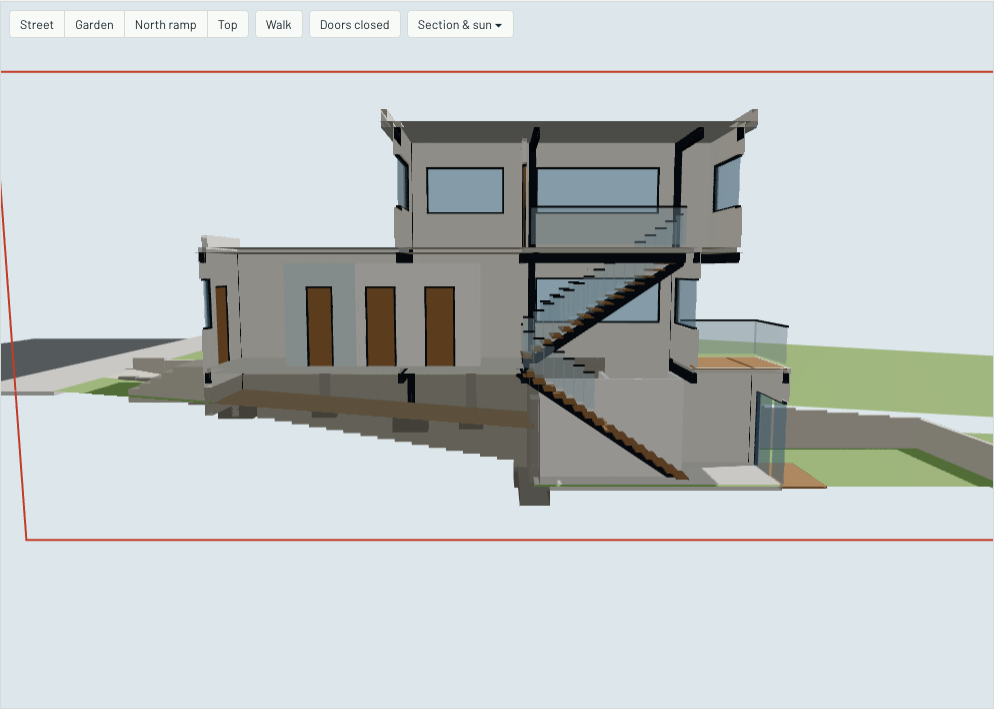
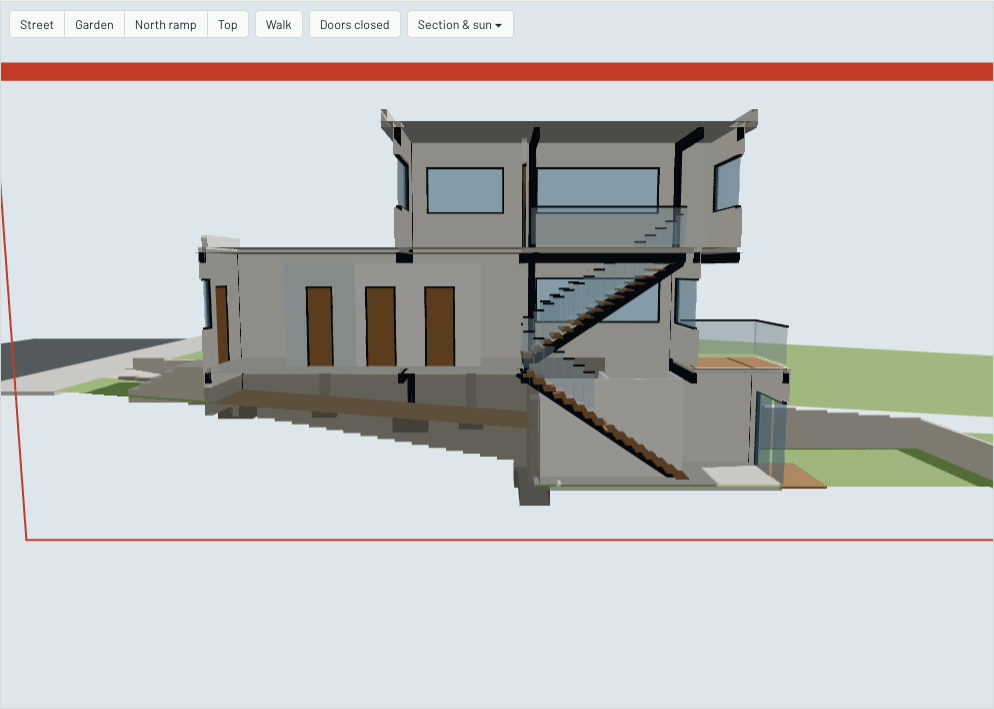
02: 3D model of site, cut, structure and building shell
Draggable section plane, docs, status, decisions, questions and screenshots.

Changed region(s): [[0.0, 0.0621, 1.0, 0.1241]]

diff --git a/src/ui/Scene3D.tsx b/src/ui/Scene3D.tsx
@@ -207,10 +207,50 @@ function SectionClip() {
     }
   });
   if (section.v === 'off') return null;
-  const quad: [number, number, number][] = section.v === 'across'
-    ? [T([-3, section.pos, -4]), T([13, section.pos, -4]), T([13, section.pos, 8]), T([-3, section.pos, 8]), T([-3, section.pos, -4])]
-    : [T([section.pos, -5, -4]), T([section.pos, 22, -4]), T([section.pos, 22, 8]), T([section.pos, -5, 8]), T([section.pos, -5, -4])];
-  return <Line points={quad} color="#B4432F" lineWidth={2} raycast={() => null} />;
+  return <SectionHandle />;
+}
+
+const HANDLE_Z = 8;
+const handleMat = new THREE.MeshBasicMaterial({ color: '#B4432F' });
+
+/** The red frame of the vertical section, with a bar on top you can drag. */
+function SectionHandle() {
+  const section = useApp((s) => s.section);
+  const { controls } = useThree() as unknown as { controls: { enabled: boolean } | null };
+  const drag = useRef(false);
+  const across = section.v === 'across';
+  const quad: [number, number, number][] = across
+    ? [T([-3, section.pos, -4]), T([13, section.pos, -4]), T([13, section.pos, HANDLE_Z]), T([-3, section.pos, HANDLE_Z]), T([-3, section.pos, -4])]
+    : [T([section.pos, -5, -4]), T([section.pos, 22, -4]), T([section.pos, 22, HANDLE_Z]), T([section.pos, -5, HANDLE_Z]), T([section.pos, -5, -4])];
+  const bar: BoxPart = across
+    ? { kind: 'box', id: 'handle', mat: 'rail', c: [5, section.pos, HANDLE_Z], s: [16, 0.35, 0.35] }
+    : { kind: 'box', id: 'handle', mat: 'rail', c: [section.pos, 8.5, HANDLE_Z], s: [0.35, 27, 0.35] };
+  const onMove = (e: ThreeEvent<PointerEvent>) => {
+    if (!drag.current) return;
+    e.stopPropagation();
+    const hit = e.ray.intersectPlane(new THREE.Plane(new THREE.Vector3(0, 1, 0), -HANDLE_Z), new THREE.Vector3());
+    if (!hit) return;
+    const st = useApp.getState();
+    const v = across ? Math.min(21, Math.max(-4, -hit.z)) : Math.min(12, Math.max(-2, hit.x));
+    st.set3d({ section: { ...st.section, pos: Math.round(v / 0.05) * 0.05 } });
+  };
+  const end = (e: ThreeEvent<PointerEvent>) => {
+    if (!drag.current) return;
+    drag.current = false;
+    if (controls) controls.enabled = true;
+    (e.target as unknown as Element).releasePointerCapture?.(e.pointerId);
+  };
+  return (
+    <>
+      <Line points={quad} color="#B4432F" lineWidth={2} raycast={() => null} />
+      <mesh
+        geometry={unitBox} material={handleMat} position={T(bar.c)} scale={[bar.s[0], bar.s[2], bar.s[1]]}
+        onPointerDown={(e) => { e.stopPropagation(); drag.current = true; if (controls) controls.enabled = false; (e.target as unknown as Element).setPointerCapture?.(e.pointerId); }}
+        onPointerMove={onMove} onPointerUp={end} onPointerCancel={end}
+        onPointerOver={() => { document.body.style.cursor = 'ew-resize'; }} onPointerOut={() => { document.body.style.cursor = ''; }}
+      />
+    </>
+  );
 }
 
 function TestHook() {

diff --git a/e2e/view3d.spec.ts b/e2e/view3d.spec.ts
@@ -71,3 +71,22 @@ test('walk mode starts at the street and moves with the keyboard', async ({ page
   const after = await page.evaluate(() => (window as unknown as { __casa3d: Hook }).__casa3d.project(4.5, 0, 3.2));
   expect(after).not.toEqual(before); // the camera moved
 });
+
+test('drag the section plane by its red bar', async ({ page }) => {
+  await page.goto('/');
+  await page.getByTestId('view-3d').click();
+  await ready(page);
+  await page.getByRole('button', { name: 'Section & sun ▾' }).click();
+  await page.getByTestId('section-along').click();
+  await page.getByRole('button', { name: 'Less ▴' }).click();
+  await page.waitForTimeout(500);
+  const [x, y] = await screen(page, 2.45, 14, 8);
+  const [x2, y2] = await screen(page, 4.45, 14, 8);
+  await page.mouse.move(x, y);
+  await page.mouse.down();
+  for (let i = 1; i <= 10; i++) await page.mouse.move(x + ((x2 - x) * i) / 10, y + ((y2 - y) * i) / 10);
+  await page.mouse.up();
+  await page.getByRole('button', { name: 'Section & sun ▾' }).click();
+  const v = Number(await page.getByTestId('section-pos').inputValue());
+  expect(v).toBeGreaterThan(3.5);
+});

diff --git a/vite.config.ts b/vite.config.ts
@@ -3,6 +3,8 @@ import react from '@vitejs/plugin-react';
 
 export default defineConfig({
   plugins: [react()],
+  // three.js is large but only loads when the 3D view opens.
+  build: { chunkSizeWarningLimit: 1600 },
   server: { port: 5173, strictPort: true },
   test: {
     include: ['tests/**/*.test.ts'],

diff --git a/docs/STATUS.md b/docs/STATUS.md
@@ -2,6 +2,49 @@
 
 _Updated by Claude Code after every spec. The manager reads this file._
 
+## 2026-09-29 — Spec 02 done: 3D model of site, cut, structure and shell
+
+### What was built
+- **Three views:** 2D, 3D and Split (2D left, 3D right), from buttons above the plan. All of them draw the same model, so moving a wall in 2D changes the 3D at once.
+- **3D camera:** orbit, pan and zoom with the mouse or trackpad. Presets: Street, Garden, North ramp, Top. **Walk** mode puts you on the sidewalk at eye height 1.60 m. Arrow keys or W A S D move you (drag to look around, Shift to go faster), and there are on-screen arrows for the tablet. Walls block you; stairs and steps carry you up and down.
+- **Site:** the lot (14 m front, 15 m rear, 25 m sides) falls from 0.00 at the street to −2.00 at the rear. The rear half is cut to −2.55 behind retaining walls. The north walking ramp (12.5 %) goes from the street down to the garden, and the south passage slopes down to the garden. There are setback lines on the ground (orange), low walls on the neighbour boundaries, the street and the sidewalk, and entry steps up to the front door.
+- **Structure,** generated from the grid and the floors and stored in the model:
+  - 15 steel columns (W200 by default), and concrete piers under the raised street floor over the crawlspace;
+  - steel beams on the grid lines, along the slab edges and around the stair wells;
+  - steel-deck slabs (0.14 m slab + 0.26 m beams = 0.40 m);
+  - pad footings under every column and pier, and strip footings under the retaining walls.
+
+  Click any part to see it. Column and beam sections, roof eaves and the parapet can be changed in the properties panel.
+- **"Nothing floats" check:** every footing, column, beam, slab, wall, stair and deck must rest on something that is itself supported, down to the ground. It passes on Version 2 and Version 1. It fails when a footing, beam or floor is removed.
+- **Walls** have their real thickness and join at the corners. Doors and windows are real holes with frames and glass. Door leaves have an open/closed switch (the garage door rolls up).
+- **Stairs** are built from riser, tread and width, with stringers and the Version 1 landings. **Guards 1.10 m** are added automatically wherever a floor edge drops more than 0.50 m and no wall is there: the veranda, around the stair wells, and between the two flights.
+- **Roof:** flat at +6.80 with a parapet to +7.10 and 0.40 m eaves (editable). The garage roof is at +3.70. The checks now include the eaves against the city's 0.70 m limit.
+- **Section tool:** a floor cut (LL, SL or UF) and a vertical section (Across or Along). The vertical section can be moved by dragging the red bar on top of it, or with the slider, and the camera turns to face the cut.
+- **Sun:** the correct position for Piracicaba for any date and hour, with shadows. Presets: 21 June and 21 December at 9:00 and 15:00.
+- **Selection:** clicking something in 3D selects it in both views. The 2D plan switches to that element's floor.
+
+### How to see it
+- Double-click **`Open Casa 123.command`**, then click **3D** or **Split** above the plan.
+- Screenshots: `docs/screens/02-street.png`, `02-garden.png`, `02-section.png` (a section through the stairs, looking from the north).
+
+### Tests
+- `npm test`: 49 unit tests, including the walk from the street through the entry, down the stair and out of the garden door; the support check passing and failing; guards; holes in walls; the sun position.
+- `npm run e2e`: 13 browser tests, including switching views, clicking a wall in 3D, walk mode, dragging the section plane, and the three screenshots.
+- `npm run build` passes.
+
+### Not done yet / known gaps
+- Section cuts are hollow: you see inside the walls, but the cut faces are not filled in (poché).
+- The frame rate was not measured on the family laptop. The scene has about 700 simple parts and rebuilds in about 20 ms after an edit, which should be comfortable.
+- Footing sizes, column and beam sections are placeholders until the engineer's design and the SPT soil borings.
+- Walk mode walks through door openings whether the doors are shown open or closed.
+- The model gained footings, beams, columns and new slabs. Models saved in the browser before this spec are upgraded automatically, keeping the room edits.
+
+### Open questions
+See `docs/QUESTIONS.md` (Q4–Q6 are new).
+
+### Next
+Spec 03 — plumbing (still a draft; the manager marks it ready).
+
 ## 2026-09-29 — Spec 01 done: building model and 2D plan editor
 
 ### What was built

diff --git a/docs/DECISIONS.md b/docs/DECISIONS.md
@@ -15,3 +15,15 @@
 - 2026-09-29 — Added "Add door" and "Add window" tools to the toolbar, because double-click does not work well on a tablet.
 - 2026-09-29 — Renaming a room to the name of another room on the same floor is refused: the two would merge and their wall would disappear.
 - 2026-09-29 — Each floor fills the plan view (as in the prototype). A fixed frame for all floors was tried and made the lower level too small on a tablet.
+- 2026-09-29 (spec 02) — The 3D view is built from simple boxes and ground polygons computed from the model by a pure function (`src/scene/build3d.ts`). It keeps no copy of the geometry and is unit-tested without WebGL. Holes for doors and windows are made by splitting walls into pieces (no boolean operations): exact for rectangular openings and fast.
+- 2026-09-29 (spec 02) — Structure is generated once from the grid and the slabs and stored in the model, so each column and beam has an id and editable properties. Version 2 grid: x 0 / 3.2 / 8.6, y 0 / 5 / 8.5 / 12.6 / 15 (the 8.2 line from plan-v2 is only a stair edge, so it gets a trimmer beam, not a column row).
+- 2026-09-29 (spec 02) — "0.40 m total depth" read as structure zone: 0.14 m steel-deck slab on 0.26 m beams (W250×32.7). The headroom check still uses 0.40 m.
+- 2026-09-29 (spec 02) — New slabs: the roof of the lower level under the veranda (+0.60) and the garage roof (+3.70, parapet 0.30). Roof eaves 0.40 m by default (the city limit is 0.70 m).
+- 2026-09-29 (spec 02) — Ground model: natural plane 0.00 at the street to −2.00 at the rear; garden −2.55 behind the cut (y 8.5); north ramp starts at the street at 0.00 and falls 12.5 % until it meets the garden (at y ≈ 16.4, just past the house); south passage falls evenly from the street to the garden at y 10.5 (where the south retaining wall ends). Driveway rises from 0.00 to the garage floor +0.10.
+- 2026-09-29 (spec 02) — Street-level outer walls go down to +0.10, and a concrete plinth closes the crawlspace down to the ground. Walls around the garage start at the garage floor (+0.10).
+- 2026-09-29 (spec 02) — Where a stair flight passes over a wall (the down flight crosses the cut line at y 8.5), the wall is automatically notched below the flight. Without this the stair would hit the retaining wall. See Q4.
+- 2026-09-29 (spec 02) — Support ("nothing floats") rule: footings below the ground; columns on a footing; beams need one supported contact and two contacts in all (columns or other beams); suspended slabs need two supported beams; slabs on grade may sit on up to 1.20 m of compacted fill; walls, stairs and decks must rest on a supported slab, beam, strip footing, wall or the ground. A plausibility rule, not a structural analysis.
+- 2026-09-29 (spec 02) — Guards 1.10 m are generated where a floor, landing or stair edge drops more than 0.50 m and no wall covers it from the floor to 0.90 m.
+- 2026-09-29 (spec 02) — The vertical section is dragged by a red bar on its top edge (dragging the whole plane would block clicks on the building behind it). A slider does the same.
+- 2026-09-29 (spec 02) — Version 1 U-stair adjusted so the top flight lands exactly on the upper floor edge (flights 9 + 8 risers; the first flight starts 0.27 m into the hall).
+- 2026-09-29 (spec 02) — Walk mode ignores door leaves (you can walk through a door opening even when doors are shown closed), so the walk never gets stuck on a closed door.

diff --git a/docs/QUESTIONS.md b/docs/QUESTIONS.md
@@ -10,3 +10,12 @@ The brief says the retaining walls include "the buried part of the north and sou
 
 ## Q3 (2026-09-29, spec 01) — South passage 1.50 m or 1.92 m?
 The brief says the south side passage is 1.50 m and the north ramp 4.0 m. `plan-v2.json` puts the house 1.92 m from the south boundary, which leaves about 3.5–4.5 m on the north. I used plan-v2.json (1.92 m). **Which one is right?**
+
+## Q4 (2026-09-29, spec 02) — The down flight crosses the retaining wall at the cut
+In Version 2 the down flight starts at y 8.2 on the street level and goes over the cut line (y 8.5), where the lower level's front retaining wall stands. The app notches the wall under the flight, so the model is consistent, but the engineer must detail how the retaining wall steps down under the stair (or the flight must start behind the cut line). **Please flag this for the architect/engineer.**
+
+## Q5 (2026-09-29, spec 02) — North ramp: from the street or from the house front?
+A 12.5 % ramp from −0.32 at the house front would only reach the garden at y ≈ 17.8, and would pass above the studio window. I started it at the street (0.00 at the sidewalk), so it reaches the garden at y ≈ 16.4 and stays below the studio window sill. It is also only 3.5–4.5 m wide there (see Q3). **Is that the intended ramp?**
+
+## Q6 (2026-09-29, spec 02) — Garage roof and lower-level roof
+The front of the street level (garage and entry, y 0–5) has no floor above, so I gave it a flat roof at +3.70 with a 0.30 m parapet (reserved for 6 more solar modules). In Version 1 the lower-level roof behind the street level has no veranda, so it got a parapet too. **Confirm, or say if these should be terraces with guards instead.**

diff --git a/docs/specs/02-3d-shell.md b/docs/specs/02-3d-shell.md
@@ -1,5 +1,5 @@
 # 02 — 3D model: site, cut, structure and building shell
-Status: in progress
+Status: done (2026-09-29)
 
 ## Goal
 A 3D view of the same model, next to or switchable with the 2D plan. Editing in either view updates both at once. It must be physically believable and measured, not a sketch.
